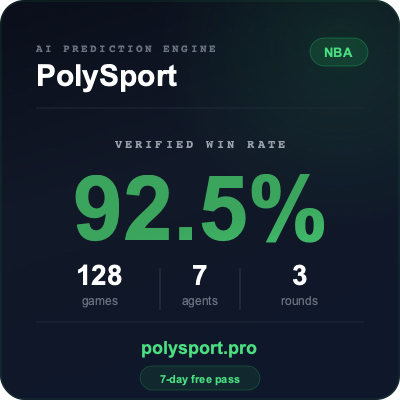
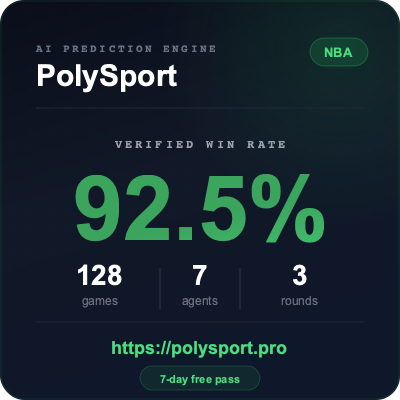
fix: add https:// prefix to URL in NFT card image

Changed region(s): [[0.27, 0.84, 0.72, 0.9]]

diff --git a/backend/scripts/generate_nft_image.py b/backend/scripts/generate_nft_image.py
@@ -116,7 +116,7 @@ def build_svg(win_rate: str, games: int, agents: int, rounds: int) -> str:
   <!-- 底部: 网址居中显眼 -->
   <text x="200" y="354" text-anchor="middle"
         font-family="Arial, Helvetica, sans-serif" font-size="18" font-weight="bold"
-        fill="#4ade80">polysport.pro</text>
+        fill="#4ade80">https://polysport.pro</text>
 
   <!-- 7-day free pass 标签居中 -->
   <rect x="140" y="366" width="120" height="24" rx="12" ry="12"
